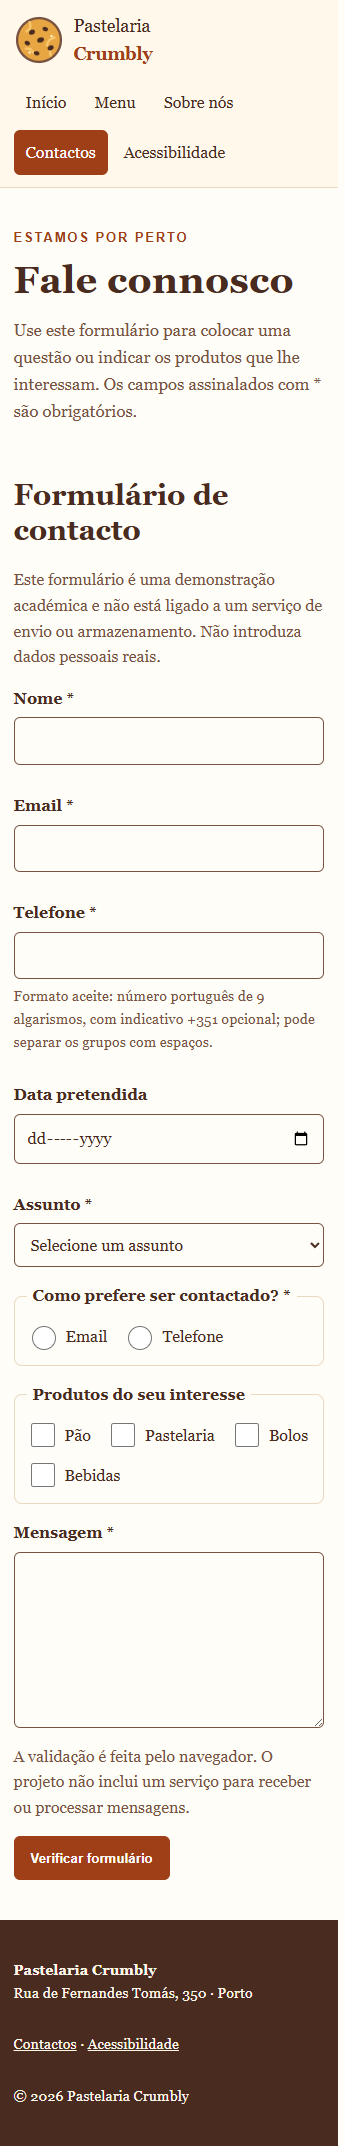
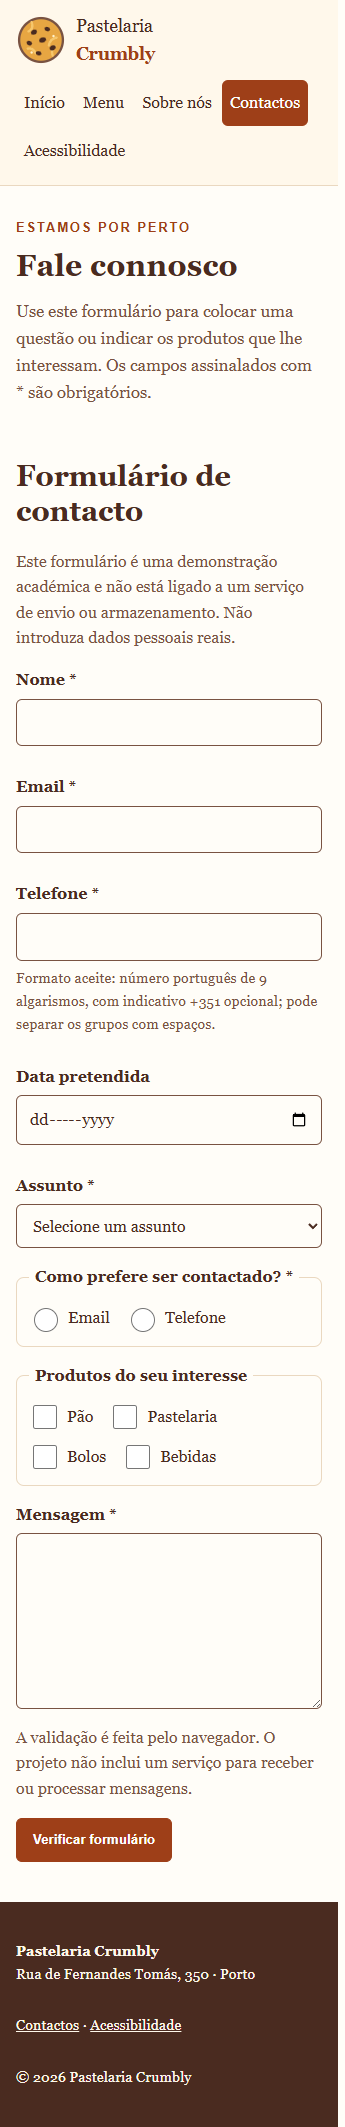
Atualizar correções e evidências responsivas da E5

diff --git a/css/style.css b/css/style.css
@@ -20,7 +20,17 @@ img,
 
 .container {
   width: 92%;
+  max-width: 100%;
+  min-width: 0;
   margin: 0 auto;
+}
+
+main,
+section,
+article,
+figure,
+nav {
+  max-width: 100%;
 }
 
 /* No telemóvel o cabeçalho e a navegação podem ocupar várias linhas. */
@@ -35,6 +45,16 @@ img,
   flex-direction: column;
   align-items: flex-start;
   gap: 12px;
+}
+
+.header-content > *,
+.footer-content > *,
+.hero > *,
+.callout > *,
+.card-grid > *,
+.two-columns > *,
+.form-grid > * {
+  min-width: 0;
 }
 
 .header-content {
@@ -69,6 +89,8 @@ img,
 .nav-list {
   display: flex;
   flex-wrap: wrap;
+  max-width: 100%;
+  min-width: 0;
   gap: 4px;
   list-style: none;
   margin: 0;
@@ -94,7 +116,8 @@ img,
 /* Os conteúdos começam em uma coluna, adequada a ecrãs pequenos. */
 .hero {
   display: grid;
-  grid-template-columns: 1fr;
+  grid-template-columns: minmax(0, 1fr);
+  min-width: 0;
   gap: 24px;
   align-items: center;
   padding: 40px 0;
@@ -112,14 +135,20 @@ img,
 
 .hero h1,
 .page-intro h1 {
+  width: 100%;
+  min-width: 0;
+  max-width: 100%;
   max-width: 650px;
   margin: 0 0 16px;
-  font-size: 2.4rem;
+  font-size: 2.1rem;
+  overflow-wrap: anywhere;
   line-height: 1.1;
 }
 
 .hero p:not(.eyebrow),
 .page-intro > p:last-child {
+  width: 100%;
+  min-width: 0;
   max-width: 620px;
   color: #795342;
   font-size: 1.05rem;
@@ -133,6 +162,7 @@ img,
 .button-row {
   display: flex;
   flex-wrap: wrap;
+  min-width: 0;
   gap: 10px;
   margin-top: 24px;
 }
@@ -149,6 +179,7 @@ img,
   text-decoration: none;
   font-family: Arial, sans-serif;
   font-weight: bold;
+  overflow-wrap: anywhere;
 }
 
 .button:hover {
@@ -203,7 +234,7 @@ h3 {
 
 .card-grid {
   display: grid;
-  grid-template-columns: 1fr;
+  grid-template-columns: minmax(0, 1fr);
   gap: 16px;
 }
 
@@ -243,14 +274,27 @@ h3 {
 
 .table-wrapper {
   max-width: 100%;
-  overflow-x: auto;
+  min-width: 0;
+  overflow-x: visible;
 }
 
 table {
   width: 100%;
+  max-width: 100%;
+  table-layout: fixed;
   border-collapse: collapse;
   background: #fffdf8;
   border: 1px solid #ead8c0;
+}
+
+table th:first-child,
+table td:first-child {
+  width: 38%;
+}
+
+table th:last-child,
+table td:last-child {
+  width: 20%;
 }
 
 caption {
@@ -262,9 +306,10 @@ caption {
 
 th,
 td {
-  padding: 12px;
+  padding: 7px 5px;
   text-align: left;
   border-bottom: 1px solid #ead8c0;
+  overflow-wrap: anywhere;
 }
 
 thead {
@@ -274,7 +319,7 @@ thead {
 
 thead th {
   font-family: Arial, sans-serif;
-  font-size: .9rem;
+  font-size: .78rem;
 }
 
 tbody th {
@@ -332,7 +377,7 @@ mark {
 
 .two-columns {
   display: grid;
-  grid-template-columns: 1fr;
+  grid-template-columns: minmax(0, 1fr);
   gap: 24px;
   align-items: center;
 }
@@ -428,6 +473,75 @@ fieldset legend {
   font: inherit;
 }
 
+@media (max-width: 420px) {
+  body {
+    width: 100%;
+    max-width: 100%;
+    overflow-wrap: break-word;
+  }
+
+  .container {
+    width: calc(100% - 32px);
+    max-width: calc(100% - 32px);
+  }
+
+  .hero,
+  .warm-section > .container,
+  .page-intro.container,
+  .menu-section.container,
+  .story.container,
+  .form-section.container,
+  .accessibility-content.container {
+    width: 100%;
+    max-width: 100%;
+    padding-right: 16px;
+    padding-left: 16px;
+  }
+
+  .hero-copy,
+  .card,
+  .callout > *,
+  .two-columns > *,
+  .form-grid > * {
+    width: 100%;
+    max-width: 100%;
+    min-width: 0;
+  }
+
+  .hero-image,
+  .section-image,
+  .card img,
+  table {
+    width: 100%;
+    max-width: 100%;
+  }
+
+  .nav-list {
+    gap: 2px;
+  }
+
+  .nav-list a {
+    padding-right: 8px;
+    padding-left: 8px;
+  }
+
+  .hero h1,
+  .page-intro h1 {
+    font-size: 1.9rem;
+  }
+
+  .hero,
+  .page-intro {
+    padding-top: 32px;
+  }
+
+  th,
+  td {
+    padding: 6px 4px;
+    font-size: .82rem;
+  }
+}
+
 .form-field textarea {
   resize: vertical;
 }
@@ -506,7 +620,7 @@ summary:focus {
   }
 
   .hero {
-    grid-template-columns: 1fr 1fr;
+    grid-template-columns: minmax(0, 1fr) minmax(0, 1fr);
     gap: 28px;
     padding: 56px 0;
   }
@@ -519,7 +633,7 @@ summary:focus {
   .card-grid,
   .two-columns,
   .form-grid {
-    grid-template-columns: 1fr 1fr;
+    grid-template-columns: minmax(0, 1fr) minmax(0, 1fr);
   }
 
   .form-field-wide {
@@ -563,7 +677,7 @@ summary:focus {
   }
 
   .card-grid {
-    grid-template-columns: 1fr 1fr 1fr;
+    grid-template-columns: repeat(3, minmax(0, 1fr));
   }
 
   .warm-section,
@@ -580,6 +694,6 @@ summary:focus {
   }
 
   .hero {
-    grid-template-columns: 1.1fr .9fr;
+    grid-template-columns: minmax(0, 1.1fr) minmax(0, .9fr);
   }
 }

diff --git a/docs/wireframes/sobre.md b/docs/wireframes/sobre.md
@@ -1,17 +1,45 @@
-# Wireframe — Sobre nós
+# Wireframe de baixa fidelidade — Sobre nós
+
+## Telemóvel (ecrã estreito)
 
 ```text
-+--------------------------------------------------+
-| LOGÓTIPO                         Início Menu Sobre|
-+--------------------------------------------------+
-|          Título: Sobre a pastelaria              |
-|          Subtítulo                               |
-+--------------------------------------------------+
-| [imagem da equipa]       História                |
-|                          Valores (lista)         |
-+--------------------------------------------------+
-| Horário e localização       [imagem da fachada]  |
-+--------------------------------------------------+
-| RODAPÉ                                           |
-+--------------------------------------------------+
++------------------------------+
+| LOGÓTIPO                      |
+| Início · Menu · Sobre         |
+| Contactos · Acessibilidade     |
++------------------------------+
+| Título: Sobre a pastelaria     |
+| Subtítulo                      |
++------------------------------+
+| [imagem da equipa]             |
+| História                       |
+| Texto da história              |
+| Valores (lista)                |
++------------------------------+
+| Horário e localização          |
+| [imagem da fachada]            |
++------------------------------+
+| RODAPÉ                         |
++------------------------------+
 ```
+
+## Computador
+
+```text
++----------------------------------------------------------------+
+| LOGÓTIPO                    Início  Menu  Sobre  Contactos ...  |
++----------------------------------------------------------------+
+| Título: Sobre a pastelaria                                      |
+| Subtítulo                                                       |
++----------------------------------------------------------------+
+| [imagem da equipa]          História                            |
+|                             Texto da história                   |
+|                             Valores (lista)                     |
++----------------------------------------------------------------+
+| Horário e localização             [imagem da fachada]           |
++----------------------------------------------------------------+
+| RODAPÉ                                                         |
++----------------------------------------------------------------+
+```
+
+No telemóvel, os blocos ficam empilhados e ocupam a largura disponível. No computador, as imagens e o texto podem ficar lado a lado.

diff --git a/docs/checklist-E5.md b/docs/checklist-E5.md
@@ -2,13 +2,14 @@
 
 - [x] Abordagem mobile-first: os estilos base começam em uma coluna e os layouts maiores são acrescentados nos breakpoints `600px`, `900px` e `1200px`.
 - [x] Flexbox na navegação e grelha CSS na galeria de conteúdos.
-- [x] As cinco páginas foram verificadas a 360 px e 1280 px sem deslocamento horizontal da página; resultados em `docs/responsivo/`.
+- [x] As cinco páginas foram verificadas em viewports reais de 360 px e 1280 px sem conteúdo fora da largura disponível; capturas em `docs/responsivo/`.
 - [x] Pelo menos duas imagens usam a classe `responsive-image`, que aplica `max-width: 100%` e `height: auto`.
 - [x] Elementos interativos principais e controlos de seleção têm áreas de toque com pelo menos 24 × 24 px; navegação, botões e resumo usam 44 px de altura.
-- [x] Criar a tag Git `E5` depois da revisão final.
+- [x] A tag Git `E5` foi criada anteriormente; esta atualização não cria commits nem altera a tag.
 
 ## Verificações
 
-- Capturas: [`docs/responsivo/`](./responsivo/README.md).
+- Capturas: [evidências responsivas](./responsivo/README.md).
+- Nas cinco páginas, em 360 px e 1280 px, `documentElement.scrollWidth` não excedeu a largura disponível. A verificação não encontrou elementos com conteúdo interno mais largo do que a caixa; as tabelas do menu também cabem sem scroll horizontal.
 - HTML: submeter individualmente as cinco páginas ao Nu Html Checker; guardar os resultados oficiais, se a unidade curricular pedir evidências do validador nesta entrega.
 - Interação: percorrer a navegação e o formulário por teclado e confirmar o foco visível.

diff --git a/docs/responsivo/README.md b/docs/responsivo/README.md
@@ -1,6 +1,6 @@
 # Evidências de design responsivo — E5
 
-As capturas nesta pasta documentam a apresentação do sítio em telemóvel (360 px) e computador (1280 px).
+As capturas documentam as cinco páginas em viewport real de telemóvel (360 px) e computador (1280 px).
 
 | Página | Captura a 360 px | Captura a 1280 px |
 |---|---|---|
@@ -10,4 +10,6 @@ As capturas nesta pasta documentam a apresentação do sítio em telemóvel (360
 | Contactos | `contactos-360.png` | `contactos-1280.png` |
 | Acessibilidade | `acessibilidade-360.png` | `acessibilidade-1280.png` |
 
-As cinco páginas foram também percorridas nas duas larguras. A verificação registou `scrollWidth` igual a `clientWidth`, sem deslocamento horizontal da página. As tabelas podem ter deslocamento próprio dentro do contentor para continuarem legíveis em ecrãs estreitos.
+As dez capturas foram geradas depois dos ajustes em páginas de teste com viewport real de 360 px e 1280 px. Nas cinco páginas, `documentElement.scrollWidth` não excedeu a largura disponível e não foram encontrados elementos com conteúdo interno mais largo do que a respetiva caixa. As tabelas do menu também cabem sem deslocamento horizontal interno.
+
+Nota: nas capturas móveis, a imagem tem 345 px de largura porque o Chromium guarda a área de conteúdo sem os 15 px da barra vertical; o viewport de teste foi configurado para 360 px.
